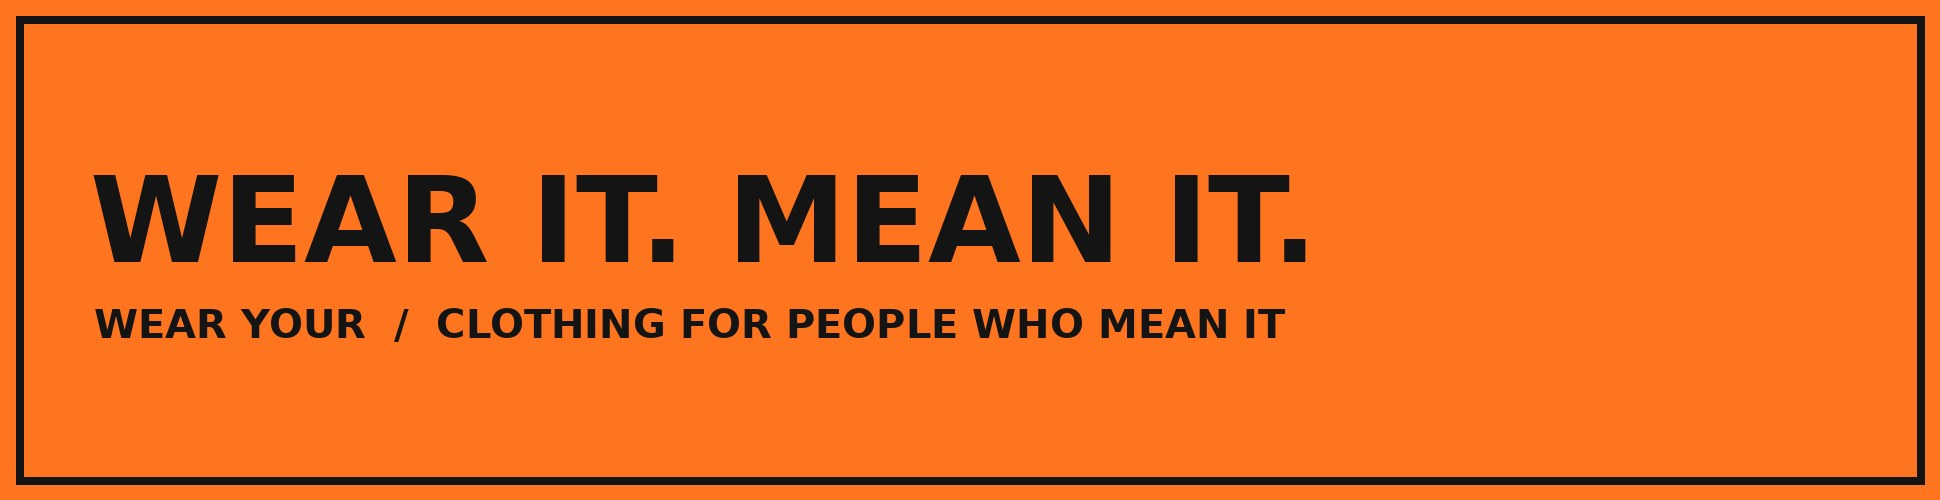
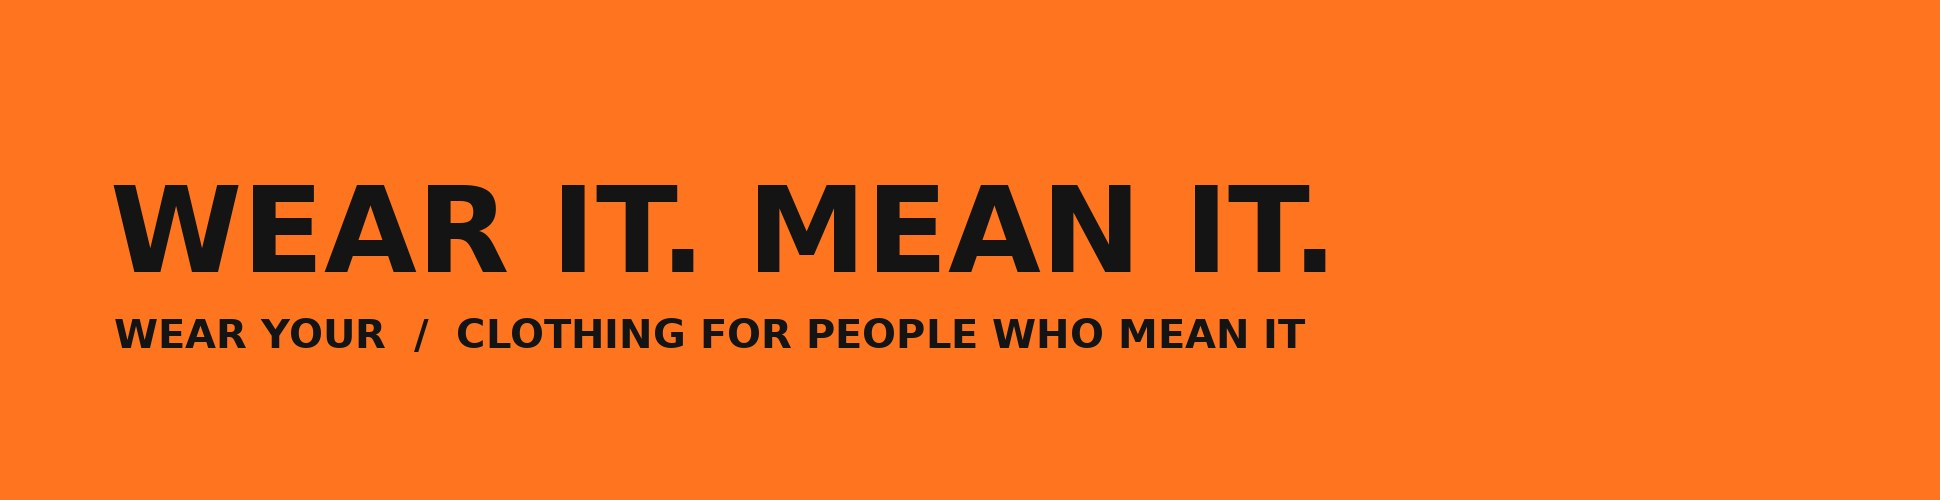
Draft: the ad unit takes the card class, and the caption goes
The 30% panel is a .card, so the ad is one too rather than a copy of
its border, radius and shadow values. Anything that changes on the
cards now changes here, and the two cannot drift apart.

The free line goes with the label, so the section is the unit and
nothing else. The placeholder loses its inner rule, which read as a
second border inside the card frame.

Claude-Session: https://claude.ai/code/session_019NiYrX1yRGLZd9B9kgchvU

Changed region(s): [[0.0, 0.03, 1.0, 0.99]]

diff --git a/site.css b/site.css
@@ -125,33 +125,16 @@
 }
 
 /* ------------------------------------------------------------ AD STRIP
-   One landscape unit, small on purpose. The page is the product and the ad
-   is a line in it, not a chapter: a portrait creative blown to full width
-   ran a whole screen tall, which is a chapter. The unit wears the same box
-   as every card on the site: ink border, the site radius, the hard offset
-   shadow. An ad framed like the furniture stops looking like a hole. */
+   One landscape unit, small on purpose: the page is the product and the ad
+   is a line in it, not a chapter. The unit carries .card, so it is the same
+   object as the product cards and the Wear Your panel rather than a copy of
+   them; anything that changes there changes here. */
 .adfull { border-block: var(--border-w); background: var(--cream);
-          padding: 14px 0 clamp(18px, 2.2vw, 26px); }
-.adfull-strip {
-  max-width: var(--wrap); margin: 0 auto; padding: 0 var(--gutter) 14px;
-}
-.adfull-why {
-  font-family: var(--font-mono); font-size: .62rem; font-weight: 700;
-  letter-spacing: .18em; text-transform: uppercase; opacity: .45; margin: 0;
-}
-.adfull-row { padding: 0 var(--gutter); display: flex; justify-content: center; }
-/* The shadow is cast by the link, not the image, so it stays square with
-   the rounded corners instead of leaking out behind them. */
-.adfull-row a {
-  display: block; max-width: 970px; width: 100%;
-  border: var(--border-w); border-radius: var(--radius);
-  box-shadow: var(--shadow); overflow: hidden;
-  transition: transform .16s ease, box-shadow .16s ease;
-}
-.adfull-row a:hover { transform: translate(-3px, -3px); box-shadow: 10px 10px 0 var(--ink); }
+          padding: clamp(26px, 3.6vw, 44px) 0; }
+.adfull-row { padding: 0 var(--gutter) 9px; display: flex; justify-content: center; }
+.adfull-row .card { display: block; max-width: 970px; width: 100%; overflow: hidden; }
+.adfull-row .card:hover { transform: translate(-4px, -4px); box-shadow: var(--shadow-lg); }
 .adfull-row img {
   width: 100%; height: auto; aspect-ratio: 970 / 250;
   object-fit: cover; display: block;
 }
-/* The shadow needs somewhere to fall. */
-.adfull-row { padding-bottom: 9px; }

diff --git a/index.html b/index.html
@@ -135,11 +135,8 @@
 <!-- One landscape strip. Small on purpose: the page is the product, and the
      ad is a line in it, not a chapter. Swap assets/ads/wear-your-wide.jpg. -->
 <section class="adfull" aria-label="Advertisement">
-  <div class="adfull-strip">
-    <p class="adfull-why">This is what keeps Braincopia free.</p>
-  </div>
   <div class="adfull-row">
-    <a href="https://wearyour.store/" target="_blank" rel="noopener sponsored">
+    <a class="card" href="https://wearyour.store/" target="_blank" rel="noopener sponsored">
       <img src="assets/ads/wear-your-wide.jpg" alt="Wear Your. Wear it, mean it." width="970" height="250" loading="lazy">
     </a>
   </div>
